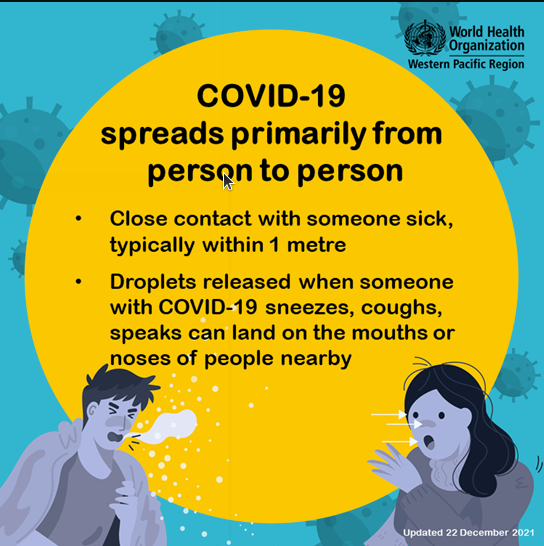
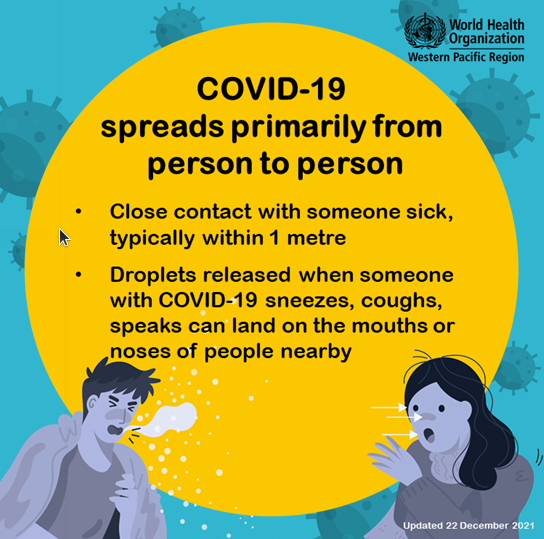
updated the home page

diff --git a/src/App.css b/src/App.css
@@ -44,6 +44,7 @@ body {
   background-image: url("/"); */
   /* background-color: beige;  */
 
+
 }
 .nav {
   /* background-color: tomato;  */
@@ -54,21 +55,6 @@ body {
   
 
 }
-/* .nav a {
-  color: tomato; 
-  padding: 10px; 
-  font-size: 1.4rem; 
-  text-decoration: none; 
-  margin-left: 50px; 
-
-} */
-/* .nav a:hover {
-  background-color: black;
-  border-radius: 10px; 
-  font-size: 1.4rem; 
-  color: white; 
-
-} */
 .nav a.active {
   background-color: tomato; 
   color: white; 
@@ -137,7 +123,7 @@ img {
 .right{ 
   position: absolute; 
   top: 25%; 
-  left: 80%; 
+  left: 81%; 
 }
 h3 {
   color: black; 
@@ -146,5 +132,9 @@ h3 {
 }
 .right h4 {
   text-decoration: underline; 
+}
+p {
+  color: rgb(12, 118, 167); 
+  font-size: 1.5rem; 
 }
 

diff --git a/src/App.js b/src/App.js
@@ -5,6 +5,8 @@ import NavBar from './components/NavBar';
 import {BrowserRouter as Router, Routes, Route} from 'react-router-dom';
 import CountriesList from './components/CountriesList';
 import LogIn from './components/LogIn'
+import LogOut from './components/LogOut'
+
 
 
 function App() {
@@ -18,8 +20,7 @@ function App() {
            <Route path = "/" element = {<Home />}/>
            <Route path = "/CountriesList" element = {<CountriesList />}/>
            <Route path = "/LogIn" element = {<LogIn />}/>
-           
-
+           <Route path = "/LogOut" element = {<LogOut />}/>
          </Routes>
         </Router>
       </div>

diff --git a/src/views/Home.js b/src/views/Home.js
@@ -26,7 +26,7 @@ function Home() {
           </div>
         </div>
         <div className='third'>
-          <img src ="images/spread.png" />
+          <img src ="images/spread1.png" />
         </div>
         <div className='fourth'>
           {/* <h3>Take the Following Steps to Self-Protect</h3> */}
